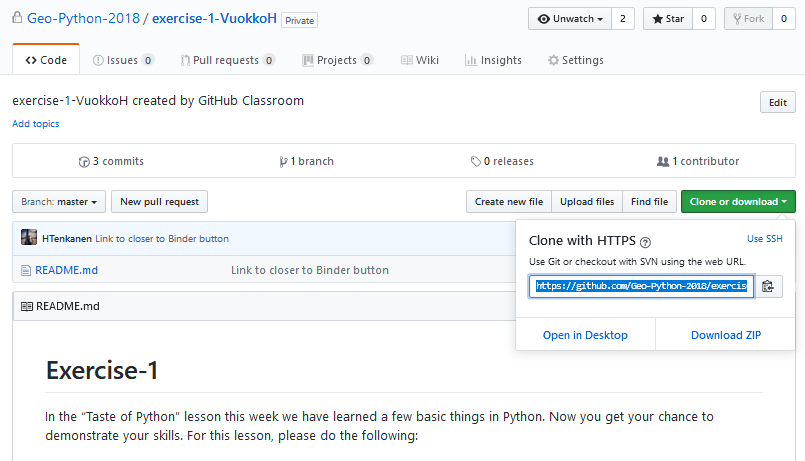
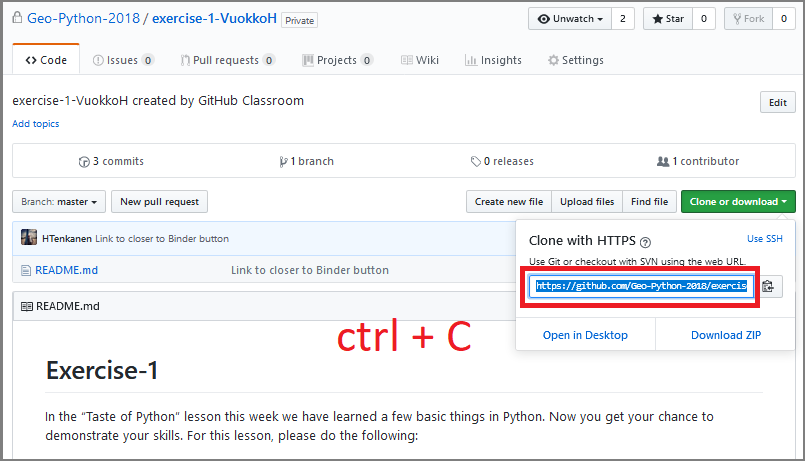
git intro final touches

Changed region(s): [[0.0, 0.0, 1.0, 1.0], [0.6211, 0.577, 0.9627, 0.6681], [0.4037, 0.6985, 0.5901, 0.7592]]

diff --git a/source/lessons/L2/git-basics.rst b/source/lessons/L2/git-basics.rst
@@ -34,10 +34,10 @@ You can check existing user information with these commands:
 Cloning
 ---------
 
-We will clone an existing repository from GitHub and start modifying it. A repository, or a "repo", is a location for storing files. In general, it is recommended that each project, library or discrete piece of software should have it's own repository
-In this course each exercise has it's own repository. We will clone Exercise-1 repository from week 1 for practicing how to work with Git and GitHub.
+We will **clone an existing repository from GitHub and start modifying it**. A repository, or a "repo", is a location for storing files. In general, it is recommended that each project, library or discrete piece of software should have it's own repository.
+In this course each exercise has it's own repository.
 
-Navigate to your personal exercise-1 repository in https://github.com/Geo-Python-2018/ and copy the web URL of your exercise-1 repository:
+We will clone Exercise-1 repository from week 1 for practicing how to work with Git and GitHub. Navigate to your personal exercise-1 repository in https://github.com/Geo-Python-2018/ and copy the web URL which you can find under the **Clone or download** -button:
 
 .. figure:: img/GitHub_clone_link.png
 
@@ -75,6 +75,10 @@ Check the status of your repository using  the `git status` command, which provi
 
     $ git status
 
+At this stage, your terminal window should look something like this:
+
+.. figure:: img/Terminal_git_status1.png
+
 Make changes
 ---------------
 
@@ -84,15 +88,14 @@ Create an empty markdown-file `test.md` under the exercise-1 repository. You can
 
     $ touch test.md
 
-
-You can also edit the file contents and save your changes (Ctrl + S).
 List all files inside the repository (you should see the new file listed in the terminal)
 
 .. code-block:: bash
 
     $ ls
 
-check the status of the repository
+check the status of the repository:
+
 .. code-block:: bash
 
     $ git status
